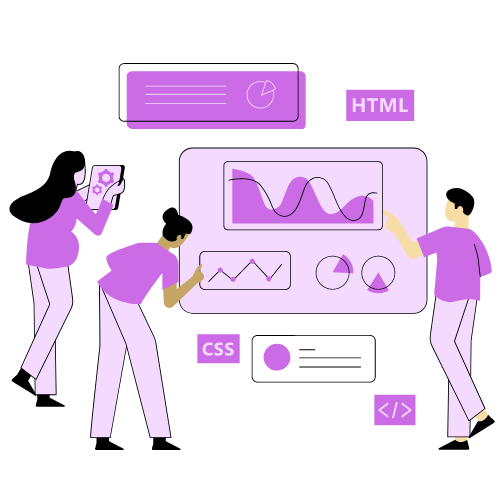
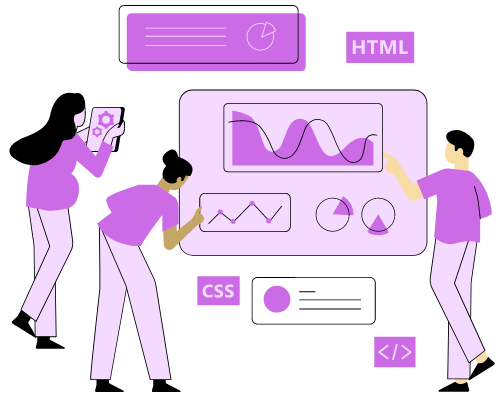
ending the css for mobile

diff --git a/src/components/PersonalInfo.jsx b/src/components/PersonalInfo.jsx
@@ -10,7 +10,7 @@ class PersonalInfo extends Component {
     return (
       <article className="text-article">
         <h1>Hello World!</h1>
-        <p>I'm Aline, Full-Stack Developer</p>
+        <p className="p-text-article">I'm Aline, Full-Stack Developer</p>
         <img src={avatar} alt="avatar" id="avatar"/>
         <div className="div-article">
           <img src={ilustracao1} alt="ilustração de pessoas montando um quebra-cabeça" className="ilustracao"/>
@@ -22,12 +22,12 @@ class PersonalInfo extends Component {
           But when I started studying computer science it was mind blowing.
           </p>
         </div>
-        <div className="div-article">
+        <div className="div-article" id="div-middle">
+          <img src={ilustracao2} alt="ilustração de pessoas montando uma pagina web" className="ilustracao" id="ilustracao3"/>
           <p className="p-div">
           Every scientific discovery made throughout history has contributed to humanity's most incredible invention: the computer. A machine intended for data processing, capable of obeying instructions that produce transformations in that data to achieve a certain end.<br/>
           It sounds a little poetic, and it is.
           </p>
-          <img src={ilustracao2} alt="ilustração de pessoas montando uma pagina web" className="ilustracao"/>
         </div>
         <div className="div-article">
           <img src={ilustracao3} alt="pessoas em volta de um computador" className="ilustracao"/>

diff --git a/src/css/PersonalInfo.css b/src/css/PersonalInfo.css
@@ -1,26 +1,73 @@
 #avatar {
   margin-top: 2px;
-  width: 150px;
+  width: 17%;
+  margin-bottom: 3%;
 }
 
 .div-article {
   display: flex;
   flex-direction: row;
   align-items: center;
-  justify-content: space-around;
-  margin-top: 40px;
+  justify-content: space-between;
+  padding: 10px;
 }
 
 .ilustracao {
   width: 30%;
+  margin-top: 10px;
 }
 
 .p-div {
   width: 50%;
-  font-size: 16px;
+  font-size: 18px;
   letter-spacing: 0.7px;
   line-height: 24px;
   border: #F4DAFF 1px solid;
   padding: 20px;
   border-radius: 25px;
+}
+
+@media screen and (max-width: 450px) {
+  .div-article {
+    display: block;
+    position: static;
+    width: 100%;
+    border: #F4DAFF 1px solid;
+    margin-bottom: 10px;
+    border-radius: 25px;
+  }
+
+  .ilustracao {
+    float: left;
+    margin-right: 10px;
+    margin-left: 10px;
+  }
+
+  #ilustracao3 {
+    float: right;
+  }
+
+  .p-div {
+    border: white;
+    width: 90%;
+  }
+}
+
+@media screen and (min-width: 449px) {
+  #div-middle {
+    display: flex;
+    flex-direction: row-reverse;
+  }
+}
+
+@media screen and (max-width: 675px) {
+  .ilustracao {
+    width: 40%;
+  }
+
+  .p-div {
+    font-size: 12px;
+    letter-spacing: normal;
+    line-height: 18px;
+  }
 }

diff --git a/src/components/Projects.jsx b/src/components/Projects.jsx
@@ -12,14 +12,16 @@ class Projects extends Component {
       <>
         <article className="text-article">
           <h1>Projects</h1>
-          <p className="p-text-article">
-          Here are some proud projects <br/>that i have already developed.
-          </p>
           <img src={imgheader} alt="woman using computer" id="header-img"/>
         </article>
+        <div>
+          <p className="p-text-article">
+            Here are some proud projects that i have already developed.
+          </p>
+        </div>
         <ul id="ul-projects">
           <li className="li-projects">
-            <a href="trybe-wallet-alinecarolina.vercel.app/" target="_blank" rel="noreferrer" className="a-projects">
+            <a href="https://trybe-wallet-alinecarolina.vercel.app" target="_blank" rel="noreferrer" className="a-projects">
               <div className="div-img-h3">
                 <h3>TrybeWallet</h3>
                 <img src={ImgTrybewallet} alt="GIF do Trybewallet" className="img-project"/>

diff --git a/src/css/Projects.css b/src/css/Projects.css
@@ -1,7 +1,7 @@
 #header-img {
   margin-top: 7px;
-  width: 150px;
-  margin-bottom: 0px;
+  width: 17%;
+  margin-bottom: 50px;
   border-radius: 50%;
 }
 
@@ -62,4 +62,57 @@
 .li-projects:hover {
   background-color: #F4DAFF;
   cursor: pointer;
+}
+
+@media screen and (max-width: 420px) {
+  .a-projects {
+    flex-direction: column;
+    align-items: center;
+  }
+
+  .li-projects {
+    border: 0;
+    margin: 10px;
+    border: 1px solid rgb(194, 194, 194);
+    padding: 10px;
+  }
+
+  .text-about-project {
+    width: 90%;
+  }
+
+  .img-project {
+    border-radius: 5px;
+  }
+}
+
+@media screen and (max-width: 520px) {
+  .text-about-project {
+    font-size: 12px;
+    margin: 0px;
+    padding: 2px;
+  }
+
+  h3 {
+    font-size: 15px;
+    margin: 2px;
+  }
+
+  .li-projects {
+    padding: 5px;
+  }
+  
+  .a-projects {
+    padding: 0px;
+  }
+
+  .div-img-h3 {
+    width: 40%;
+  }
+}
+
+@media screen and (max-width: 675px) {
+  #header-img {
+    margin-bottom: 30px;
+  }
 }

diff --git a/src/components/Skills.jsx b/src/components/Skills.jsx
@@ -15,14 +15,16 @@ class Skills extends Component {
       <>
         <article className="text-article">
           <h1>Skills</h1>
-          <p className="p-text-article">
-            Below are some of the languages, tools,<br/>technologies and methodologies that I have experience.
-          </p>
           <img src={gif} alt="gears turning" id="gif-img"/>
         </article>
+        <div>
+          <p className="p-text-article">
+            Below are some of the languages, tools, technologies and methodologies that I have experience.
+          </p>
+        </div>
         <section id="section-skills">
           <div className="skill">
-            <img src={svg} alt="Front-End development"className="svg-img"/>
+            <img src={svg} alt="Front-End development" className="svg-img"/>
             <h5>Front-End development</h5>
             <section className="languages">
               <p>HTML</p>

diff --git a/src/css/Skills.css b/src/css/Skills.css
@@ -1,7 +1,6 @@
 #gif-img {
-  margin-top: 2px;
-  width: 150px;
-  margin-bottom: 0px;
+  width: 17%;
+  margin-bottom: 50px;
   border-radius: 50%;
 }
 
@@ -11,7 +10,6 @@
   justify-content: space-evenly;
   align-items: flex-start;
   margin-top: 3%;
-  margin-left: 50px;
   margin-right: 3%;
 }
 
@@ -75,4 +73,31 @@
 .languages .progress .step.complete:last-child {
   border-top-right-radius: 20px;
   border-bottom-right-radius: 20px;
+}
+
+@media screen and (max-width: 450px) {
+  .svg-img {
+    width: 70px;
+    margin-top: 20px;
+  }
+
+  .skill {
+    width: 100px;
+    height: 500px;
+    padding: 10%;
+  }
+
+  h5 {
+    font-size: 12px;
+  }
+
+  .languages {
+    font-size: 12px;
+  }
+}
+
+@media screen and (max-width: 675px) {
+  #gif-img {
+    margin-bottom: 30px;
+  }
 }

diff --git a/src/App.css b/src/App.css
@@ -8,7 +8,7 @@
   background-image: url(./images/backheader.png);
   background-repeat: no-repeat;
   background-size: contain;
-  width: 90%;
+  width: 80%;
 }
 
 .text-article {
@@ -21,12 +21,33 @@
 }
 
 .p-text-article {
-  font-size: 16px;
+  font-size: 20px;
   text-align: center;
 }
 
 h1 {
   font-size: 2.5rem;
-  margin-top: -100px;
-  margin-bottom: 3px;
+  margin-top: -110px;
+  margin-bottom: 20px;
 }
+
+@media screen and (max-width: 675px) {
+  h1 {
+    font-size: 27px;
+  }
+  .p-text-article {
+    font-size: 15px;
+  }
+}
+
+@media screen and (max-width: 490px) {
+  h1 {
+    font-size: 15px;
+    margin-top: -110px;
+    margin-bottom: 5px;
+  }
+  .p-text-article {
+    font-size: 12px;
+  }
+}
+

diff --git a/src/css/Footer.css b/src/css/Footer.css
@@ -7,7 +7,6 @@ footer {
   background-image: url(../images/backfooter.png);
   background-repeat: no-repeat;
   background-size: cover;
-  font-size: 14px;
   flex-direction: column;
   align-items: center;
   justify-content: flex-end;
@@ -29,4 +28,18 @@ footer {
 
 .svg-contacts:hover {
   width: 50px;
+}
+
+@media screen and (max-width: 430px) {
+  footer {
+    height: 100px;
+  }
+
+  #contacts {
+    margin: 5px;
+  }
+
+  #aline-copyright {
+    margin: 1px;
+  }
 }

diff --git a/src/components/Footer.jsx b/src/components/Footer.jsx
@@ -10,7 +10,7 @@ class Footer extends Component {
   render() {
     return (
       <>
-        <footer>
+        <footer id="footer">
           <div id="contacts">
             <a href="https://github.com/AlineCarolina" target='_blank' rel="noreferrer">
               <img src={github} alt='github' className='svg-contacts'/>
